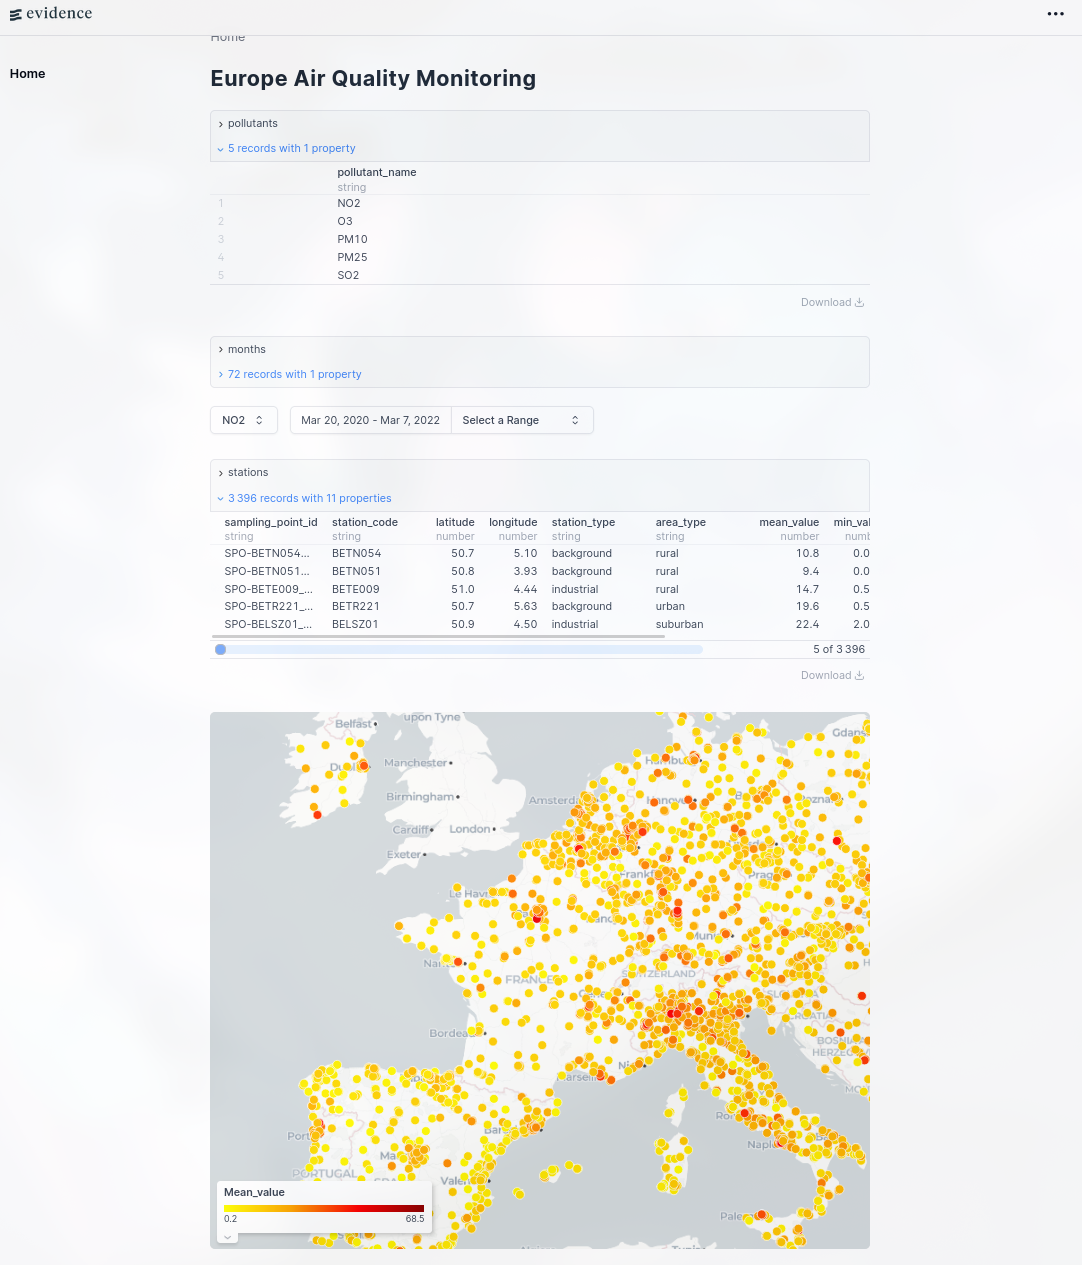
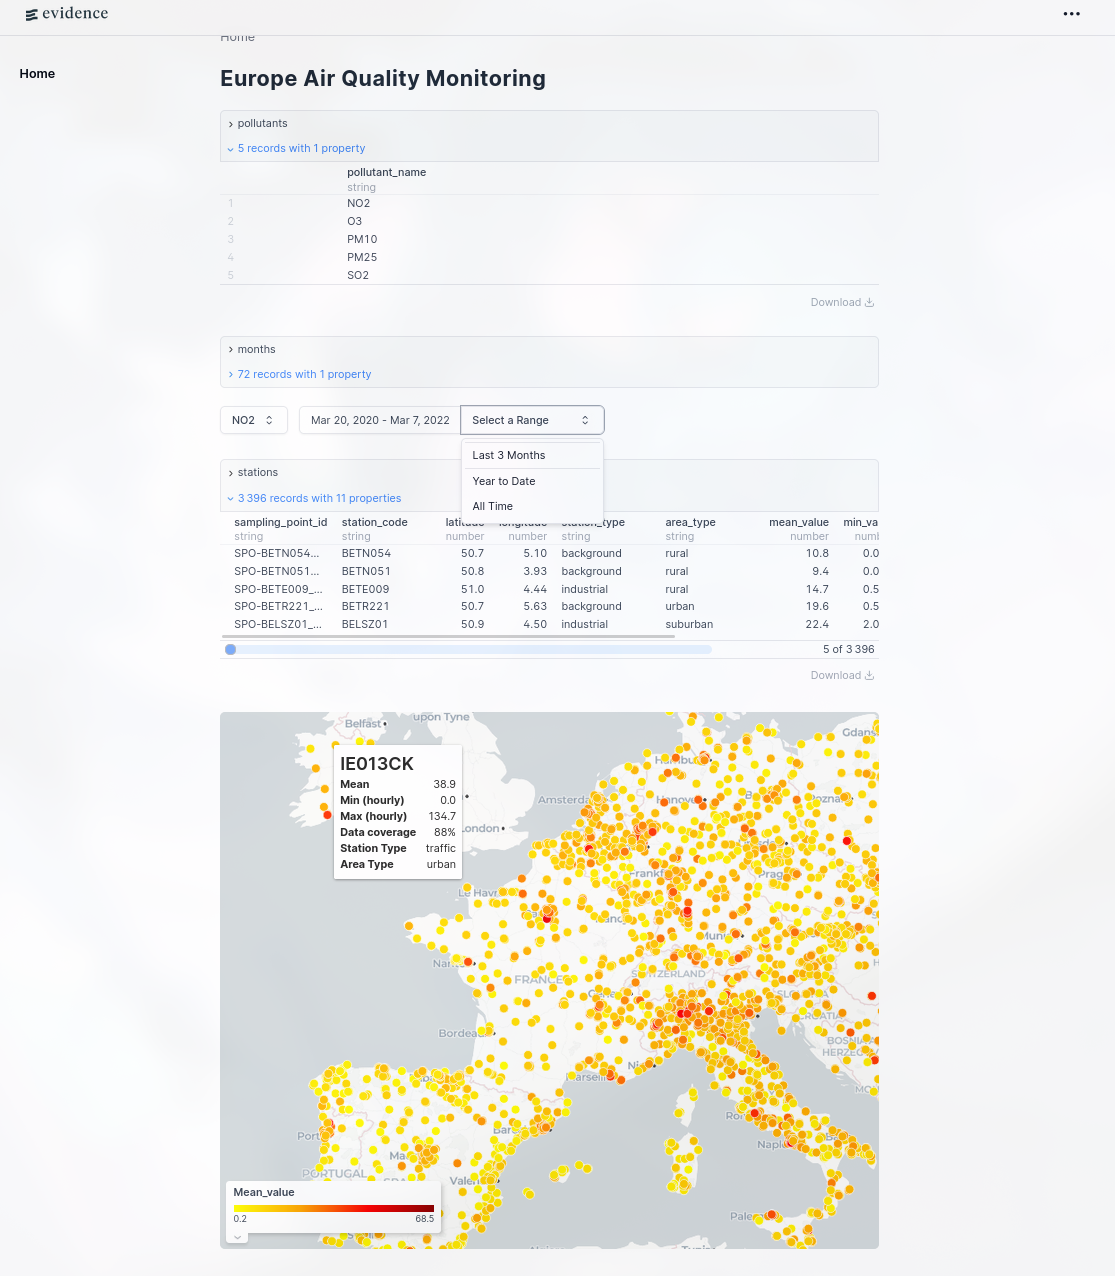
docs: updated doc with better informatinal image

diff --git a/README.md b/README.md
@@ -383,11 +383,7 @@ uv run python -c "import duckdb; duckdb.connect('dev.duckdb', read_only=True).sq
 
 ## 🗺 Roadmap
 
-1. Deploy the map as a static site (GitHub Pages) and add a live demo link.
-2. CI with GitHub Actions: lint, tests and `dbt build` on a small sample.
-3. Time-series views (monthly facts by country) in the Evidence app.
-4. Additional data quality reporting from dbt tests.
-5. *(Optional)* Recent unverified data (E2a) with scheduled collection, and orchestration.
+1. *(Optional)* Recent unverified data (E2a) with scheduled collection, and orchestration.
 
 ## 🤝 Credits
 
